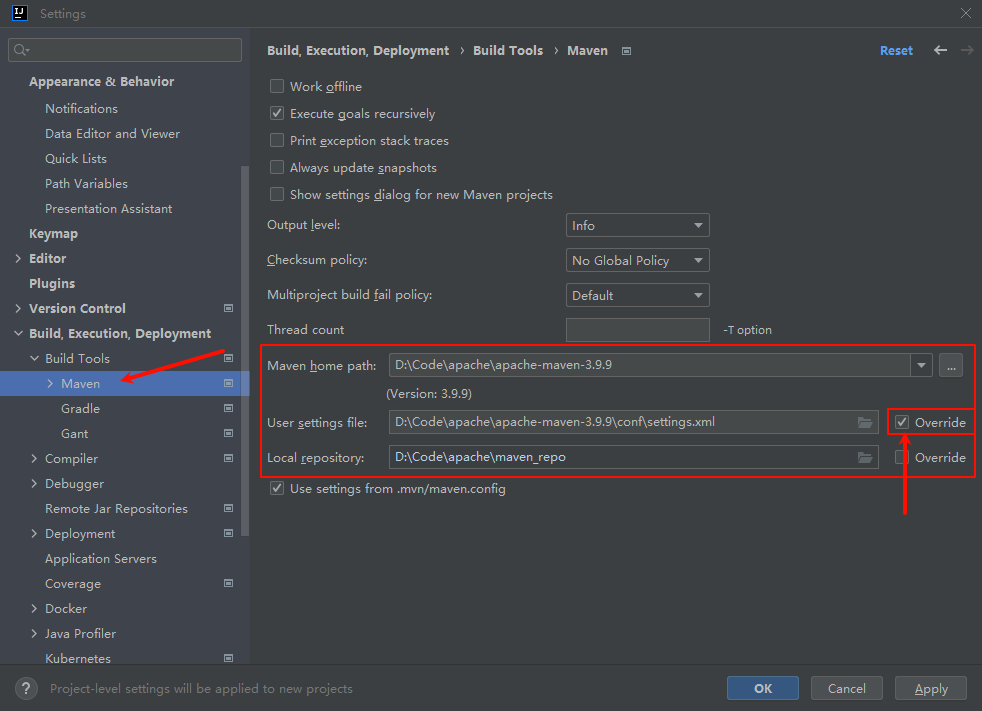
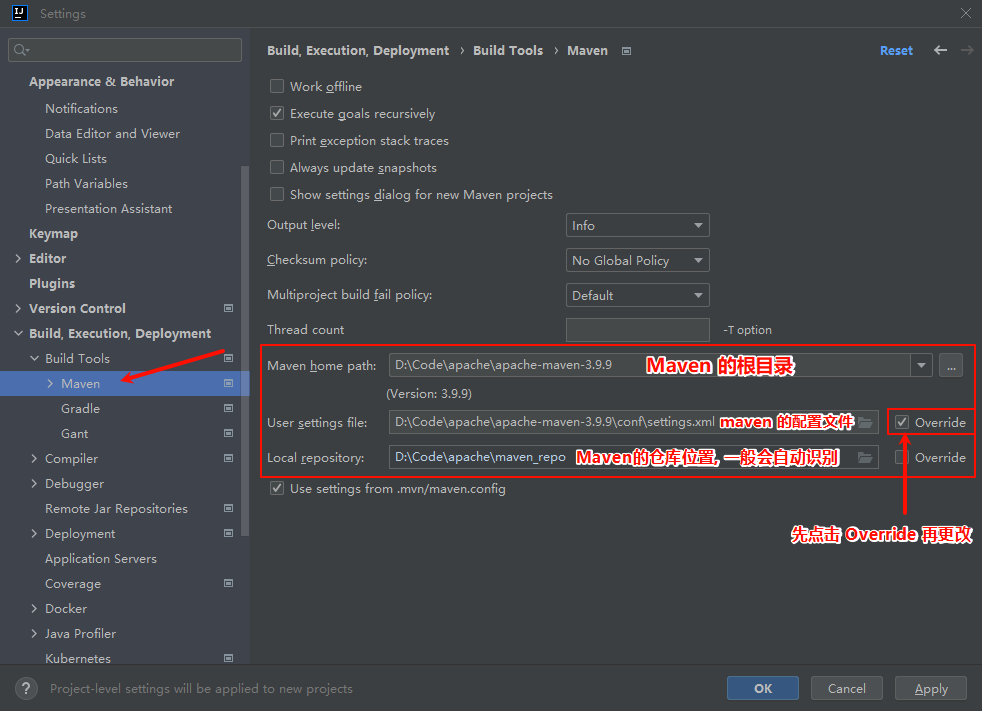
Site updated: 2024-09-24 15:57:32

Changed region(s): [[0.5804, 0.557, 0.8859, 0.6807], [0.7943, 0.7117, 1.0, 0.7736], [0.6415, 0.4951, 0.8248, 0.557]]

diff --git a/2024/09/24/Maven概述/index.html b/2024/09/24/Maven概述/index.html
@@ -41,8 +41,7 @@
 <meta property="og:image" content="https://www.wreckloud.com/img/%E6%96%87%E7%AB%A0%E5%9B%BE%E7%89%87/Maven%E6%A6%82%E8%BF%B0/Maven%E5%85%B3%E8%81%94IDEA%E7%8E%AF%E5%A2%830.png">
 <meta property="og:image" content="https://www.wreckloud.com/img/%E6%96%87%E7%AB%A0%E5%9B%BE%E7%89%87/Maven%E6%A6%82%E8%BF%B0/Maven%E5%85%B3%E8%81%94IDEA%E7%8E%AF%E5%A2%831.png">
 <meta property="og:image" content="https://www.wreckloud.com/img/%E6%96%87%E7%AB%A0%E5%9B%BE%E7%89%87/Maven%E6%A6%82%E8%BF%B0/Maven%E5%85%B3%E8%81%94IDEA%E7%8E%AF%E5%A2%832.png">
-<meta property="og:image" content="https://www.wreckloud.com/img/%E6%96%87%E7%AB%A0%E5%9B%BE%E7%89%87/Maven%E6%A6%82%E8%BF%B0/Maven%E5%85%B3%E8%81%94IDEA%E7%8E%AF%E5%A2%833.png">
-<meta property="og:image" content="https://www.wreckloud.com/img/%E6%96%87%E7%AB%A0%E5%9B%BE%E7%89%87/Maven%E6%A6%82%E8%BF%B0/Maven%E5%85%B3%E8%81%94IDEA%E7%8E%AF%E5%A2%834.png">
+<meta property="og:image" content="https://www.wreckloud.com/Maven%E5%85%B3%E8%81%94IDEA%E7%8E%AF%E5%A2%833.png">
 <meta property="og:image" content="https://www.wreckloud.com/img/%E6%96%87%E7%AB%A0%E5%9B%BE%E7%89%87/Maven%E6%A6%82%E8%BF%B0/%E5%88%9B%E5%BB%BAMaven%E9%A1%B9%E7%9B%AE1.png">
 <meta property="og:image" content="https://www.wreckloud.com/img/%E6%96%87%E7%AB%A0%E5%9B%BE%E7%89%87/Maven%E6%A6%82%E8%BF%B0/%E5%88%9B%E5%BB%BAMaven%E9%A1%B9%E7%9B%AE3.png">
 <meta property="og:image" content="https://www.wreckloud.com/img/%E6%96%87%E7%AB%A0%E5%9B%BE%E7%89%87/Maven%E6%A6%82%E8%BF%B0/%E5%9C%A8IDEA%E5%AF%BC%E5%85%A5Maven%E9%A1%B9%E7%9B%AE.png">
@@ -55,7 +54,7 @@
 <meta property="og:image" content="https://www.wreckloud.com/img/%E6%96%87%E7%AB%A0%E5%9B%BE%E7%89%87/Maven%E6%A6%82%E8%BF%B0/%E7%94%9F%E5%91%BD%E5%91%A8%E6%9C%9F.png">
 <meta property="og:image" content="https://www.wreckloud.com/img/%E6%96%87%E7%AB%A0%E5%9B%BE%E7%89%87/Maven%E6%A6%82%E8%BF%B0/IDEA%E9%9B%86%E6%88%90%E7%94%9F%E5%91%BD%E5%91%A8%E6%9C%9F.png">
 <meta property="article:published_time" content="2024-09-24T03:06:33.000Z">
-<meta property="article:modified_time" content="2024-09-24T07:39:52.714Z">
+<meta property="article:modified_time" content="2024-09-24T07:57:28.317Z">
 <meta property="article:author" content="Wreckloud">
 <meta property="article:tag" content="Java">
 <meta property="article:tag" content="Maven">
@@ -603,8 +602,8 @@
     
         <span class="article-date article-meta-item">
             <i class="fa-regular fa-wrench"></i>&nbsp;
-            <span class="desktop">2024-09-24 15:39:52</span>
-            <span class="mobile">2024-09-24 15:39:52</span>
+            <span class="desktop">2024-09-24 15:57:28</span>
+            <span class="mobile">2024-09-24 15:57:28</span>
             <span class="hover-info">更新</span>
         </span>
     
@@ -786,7 +785,7 @@
                 ></p>
 <h1 id="在-IDEA-集成-Maven"><a href="#在-IDEA-集成-Maven" class="headerlink" title="在 IDEA 集成 Maven"></a>在 IDEA 集成 Maven</h1><h3 id="配置-Maven-环境"><a href="#配置-Maven-环境" class="headerlink" title="配置 Maven 环境"></a>配置 Maven 环境</h3><p>我们并不会一直在命令行中使用 Maven, 绝大部分时候我们都会在 IDEA 中集成 Maven.  </p>
 <p>可以针对当前项目配置 Maven , 不过那样每次新项目都要配置, 比较繁琐.<br>直接略过, 我们来配置全局 Maven 路径.</p>
-<p>如果你的 IDEA 还在项目界面, 请先关闭项目返回开始界面.  </p>
+<h4 id="关联-IDEA-环境"><a href="#关联-IDEA-环境" class="headerlink" title="关联 IDEA 环境"></a>关联 IDEA 环境</h4><p>如果你的 IDEA 还在项目界面, 请先关闭项目返回开始界面.  </p>
 <p><img  
                      lazyload
                      src="/images/loading.svg"
@@ -800,23 +799,19 @@
                      data-src="/../img/%E6%96%87%E7%AB%A0%E5%9B%BE%E7%89%87/Maven%E6%A6%82%E8%BF%B0/Maven%E5%85%B3%E8%81%94IDEA%E7%8E%AF%E5%A2%831.png"
                       alt="alt text"
                 ></p>
-<p>点击左侧 <code>Build, Execution, Deployment</code> -&gt; <code>Build Tools</code> -&gt; <code>Maven</code>.<br>配置 Maven 的全局路径等信息.<br>记得如果更改不了 <code>User settings file</code> , 请点击 <code>override</code> 按钮.  </p>
+<p>在左侧选项卡中选择 <code>Build, Execution, Deployment</code><br>接着找到 <code>Build Tools</code> -&gt; <code>Maven</code> 来配置 Maven 的全局路径等信息.  </p>
 <p><img  
                      lazyload
                      src="/images/loading.svg"
                      data-src="/../img/%E6%96%87%E7%AB%A0%E5%9B%BE%E7%89%87/Maven%E6%A6%82%E8%BF%B0/Maven%E5%85%B3%E8%81%94IDEA%E7%8E%AF%E5%A2%832.png"
                       alt="alt text"
                 ></p>
-<p>配置完成后点击 <code>Apply</code> 应用.<br>接着更改两个地方的 java 版本.  </p>
+<p>配置完成后点击 <code>Apply</code> 应用.  </p>
+<h4 id="配置-Java-版本"><a href="#配置-Java-版本" class="headerlink" title="配置 Java 版本"></a>配置 Java 版本</h4><p>接着指定这两个地方的 java 版本.  </p>
 <p><img  
                      lazyload
                      src="/images/loading.svg"
-                     data-src="/../img/%E6%96%87%E7%AB%A0%E5%9B%BE%E7%89%87/Maven%E6%A6%82%E8%BF%B0/Maven%E5%85%B3%E8%81%94IDEA%E7%8E%AF%E5%A2%833.png"
-                      alt="alt text"
-                ><br><img  
-                     lazyload
-                     src="/images/loading.svg"
-                     data-src="/../img/%E6%96%87%E7%AB%A0%E5%9B%BE%E7%89%87/Maven%E6%A6%82%E8%BF%B0/Maven%E5%85%B3%E8%81%94IDEA%E7%8E%AF%E5%A2%834.png"
+                     data-src="/Maven%E5%85%B3%E8%81%94IDEA%E7%8E%AF%E5%A2%833.png"
                       alt="alt text"
                 ></p>
 <p>别忘记点击 <code>Apply</code> 应用.  </p>
@@ -829,7 +824,7 @@
                 ></p>
 <p>然后选择 Java 项目, 在Build tool中选择Maven, 然后点击下一步.  </p>
 <blockquote>
-<p>(注意: 不同版本的 IDEA 可能会有些许差异, 我这个是2024版本)</p>
+<p>(注意: 不同版本的 IDEA 可能会有些许差异, 我这个是 2024 版本的 IDEA)</p>
 </blockquote>
 <p><img  
                      lazyload
@@ -999,7 +994,7 @@
         
             <li>
                 <strong>更新于
-                    :</strong> 2024-09-24 15:39:52
+                    :</strong> 2024-09-24 15:57:28
             </li>
         
         <li>
